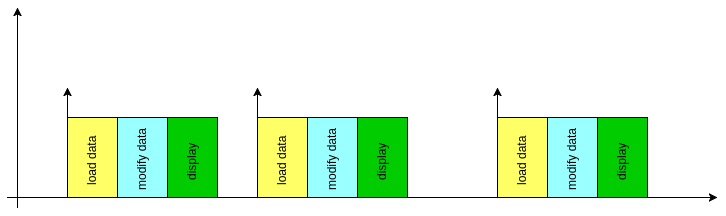
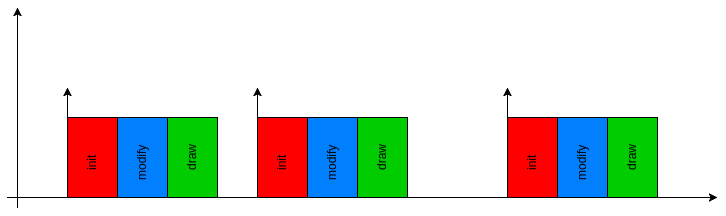
Fixed experiments

diff --git a/sections/experiments.tex b/sections/experiments.tex
@@ -1,25 +1,25 @@
 %!TEX root=../thesis.tex
 \chapter{Experiments} \label{cha:experiments}
 
-This chapter outlines in detail all the experiments run on the test application.
-Moreover, it provides also a discussion about the outcomes of the analysis. 
+This chapter outlines all the methodologies used to analyze the test application
+and it provides a discussion of the outcomes.
 
 
 \section{First measurements}
-The first measurements are obtained using the Web Tracing Framework presented in
-Section \ref{sec:wtf} and following the metodologies depicted in Sections
-\ref{sec:assumptions} and \ref{sec:procedure}.
+The first step to outline the behaviour of the test application is to include
+the the Web Tracing Framework library and to place
+the proper functions as shown in Listing \ref{code:wtf_example}.
+Consequently, the first measurements are obtained following the metodologies
+explained in Sections \ref{sec:assumptions} and \ref{sec:procedure}.
 
-The very first approach for profiling the navigator can be considered as an
-exploratory phase. All the default events available to the framework are
-used, resulting in a considerable amount of data. Fortunately the WTF interface
-displays the trace in a very neat way, allowing the user to easily navigate
-through the time series of the function calls. Moreover, based on this step,
-a selection of the interesting function calls is outlined in order to narrow the
-search field. The resulting list of WebGL primitives\footnote{A detailed description
-of the WebGL APIs can be found at the following link:
-\url{https://developer.mozilla.org/it/docs/Web/API/WebGL_API}.} is presented in
-Table \ref{tab:webgl_function_list}
+This very first approach can be considered as an
+exploratory phase. If all the default events available to the WTF are used, the
+resulting trace contains a considerable amount of data. Fortunately there is a
+graphical interface that allows to easily navigate the hierarchical structure
+of the function calls inside the trace. After getting used to the tool and its
+data format, a selection of the interesting function calls is outlined in order
+to narrow the search field only to WebGL functions. The resulting list of primitives
+is presented in Table \ref{tab:webgl_function_list}.
 \begin{table}[!htb]
     \centering
     \caption{The list of the WebGL function of interest.}
@@ -33,36 +33,47 @@ Table \ref{tab:webgl_function_list}
     \end{tabular}
 \end{table}
 
-After some trial-and-error tests, the trace extracted from the ``no-map'' scenario
-is chosen as the first to be analyzed more in detail. Figure \ref{img:no_map_overview}
-depicts a graphical representation of the trace, where every colored vertical bar
-symbolizes an occurrence of the event/function call tracked by the tool. As it
-is possible to notice, all of them are arranged into fairly regular groups.
+After some test, the trace extracted from the ``no-map'' scenario
+is selected as the first to be analyzed in detail. This choice is made
+to clarify the potential of the framework and to understand its limits, since
+this is the basic building block used in the rest of the work.
+Profiling the navigator in the abovementioned scenario outputs a trace that
+illustrates a very interesting result. Figure \ref{img:no_map_overview}
+shows a timeline representation of the trace, where every colored vertical bar
+symbolizes the occurrence of a function call or an event tracked by the tool.
+As it is possible to notice, all of them are arranged into fairly regular groups.
 \begin{figure}[!htb]
     \center{\includegraphics[width=1\linewidth]{no_map_overview.png}}
     \caption{An example trace highlighting the function groups.}
     \label{img:no_map_overview}
 \end{figure}
 
-Furthermore, every group starts with a \emph{bindBuffer} call; this function is
+Furthermore, it turns out that every group always start with a \emph{bindBuffer}
+call. According to the WebGL official documentation\footnote{A detailed description
+of the WebGL APIs can be found at the following link:
+\url{https://developer.mozilla.org/it/docs/Web/API/WebGL_API}.}, this function is
 responsible for binding a buffer object containing vertexes and/or colors to the
 current WebGL context. Essentially it marks an arbitrary buffer to be the current
-one where all the other WebGL functions work on. This is necessary due to the
-ability of the GPU process to deal with only one data structure at a time. Hence,
+one where all the other WebGL functions will work on. This is necessary due to the
+inability of the GPU process to deal with more than one data structure at a time. Hence,
 it is possible to virtually split the trace into small groups by means of the
-\emph{bindBuffer} function.\\
-After identifying the recurrent structure of the trace, it is possible to check
-which are the recurrent WebGL functions in each group and to gather them into
-macro-operations sets. After checking what is the specific task of every
-function, it became clear that they belong to three different scopes:
+\emph{bindBuffer} function.
+
+After identifying the particular structure of the trace, it is possible to check
+which are the recurrent WebGL functions belonging to each group and to gather them into
+macro-operations sets. After checking which is the specific task fulfilled by every
+function, it became clear that they belong to three main scopes:
 \begin{itemize}
     \item \emph{initialization/load data}: every WebGL function in this group
         is responsible for preparing the data structures to be loaded in memory
-        and for copying all the needed data.
+        and for copying all the needed data (eg. copies the bitmap of a texture
+        into some buffer).
     \item \emph{modify data}: these functions actually work on the vertex/color
-        buffer to modify the data, especially via matrix operations.
+        buffer to modify the data, especially via matrix operations (eg. updates
+        the value for a subset of objects in the buffer).
     \item \emph{display/draw}: this group is the one that sends the commands
-        that are actually used by the GPU to draw the shapes on the screen.
+        that are actually used by the GPU to draw the shapes on the screen
+        (eg. renders the vertexes in the buffer array).
 \end{itemize}
 
 A more detailed functions-to-groups mapping is shown in Table
@@ -76,7 +87,7 @@ A more detailed functions-to-groups mapping is shown in Table
         \hline
         \textbf{Initialization/load data} & \textbf{Modify data} & \textbf{Display/draw} \\ \hline
         bindBuffer/bindFramebuffer & uniformMatrix3fv/uniformMatrix4fv & drawElements \\
-        enable/disable & uniform[1\(\vert\)2\(\vert\)3\(\vert\)4][f\(\vert\)i\(\vert\)iv\(\vert\)fv] & drawArray \\
+        enable/disable & uniform[1\(\vert\)2\(\vert\)3\(\vert\)4][f\(\vert\)i\(\vert\)iv\(\vert\)fv] & drawArrays \\
         viewport & bindTexture/activeTexture &  \\
         clear/clearColor & bufferSubData &  \\
         cullFace &  &  \\
@@ -87,40 +98,43 @@ A more detailed functions-to-groups mapping is shown in Table
     \end{tabular}
 \end{table}
 
-Another important aspect to be noticed is how the timings fluctuate during the
-application run. As it is possible to see from Figure \ref{img:no_map_example},
-there can be outliers where the response time of the application is significantly
-smaller or larger with respect to all the rest of the trace.
+Another important aspect is how the timings' values fluctuate during every run of
+the application. As it is possible to see from Figure \ref{img:no_map_example},
+there can be outliers where the response time is significantly larger with respect
+to all the rest of the trace.
 \begin{figure}[!htb]
     \center{\includegraphics[width=0.75\linewidth]{500ms_1_no_map.png}}
-    \caption{Another trace extracted from the ``no-map'' scenario.}
+    \caption{A trace extracted from the ``no-map'' scenario.}
     \label{img:no_map_example}
 \end{figure}
-This fluctuating trend can have several justifications. Since the WTF is able to
-measure only the response times of the test application with a precision of
-\(\pm 0.5\,ms\), the bar chart shown
-in Figure \ref{img:no_map_example} is displaying on the Y axes a value which can
-be computed as follows:
+
+This fluctuating trend can have several justifications which need to be investigated
+further. Since the WTF is able to measure only the response times of the application
+with a precision of \(\pm 0.5\,ms\), the bar chart shown in Figure
+\ref{img:no_map_example} displays a composite value on the Y axis. The response
+time can be computed as follows:
 \begin{equation*}
     response\_time = computation\_time + interference
 \end{equation*}
 
-The \emph{interference} component in the formula just above is clearly due to the
-big OS stack which lies between the application JavaScript code runnint inside the
-browser and the Mesa 3D graphics driver, which is part of the Linux OS kernel.
-Thus, this issue has to be reduced to the minimum in order not to jeopardize the
+The \emph{interference} component is clearly due to the huge operating system
+stack lying between the JavaScript code, running inside the
+browser, and the Mesa 3D graphics driver, which is part of the Linux OS kernel.
+Hence, this inconvenience needs to be reduced as much as possible in order not to jeopardize the
 validity of all the results presented in this chapter. One possibility to mitigate
-the interference from higher priority tasks is to assign higher or real-time priorities
-to the entire Googhe Chrome instance using the \emph{nice}~\cite{aas2005understanding}
-tool. Another approach includes directly changing the scheduling policy via the
+the interference from higher priority tasks is to increase that of
+the Googhe Chrome instance using the \emph{nice} tool~\cite{aas2005understanding}.
+Another approach includes to directly change the scheduling policy via the
 \emph{chrt}\footnote{\url{http://man7.org/linux/man-pages/man1/chrt.1.html}.}
-utility to use different scheduling algorithms. It is possible to state that no
-noteworthy difference can be seen in the response times after applying the
-methods proposed above. For this reason, the \emph{computation\_time} component
-can be considered as the unique responsible for the timings fluctuations.
+utility for using a different scheduling algorithm. After several attempts,
+it is possible to state that no
+noteworthy difference in the response times can be observed after applying these
+methods. For this reason, further investigations in the \emph{computation\_time}
+component are foundamental for the timings fluctuations.
 
 Moreover, after dividing all the WebGL functions into macro-operations groups
-(see Table \ref{tab:webgl_func_mapping}). As it is possible to see from Figure
+(see Table \ref{tab:webgl_func_mapping}) it is possible to refine the graph shown
+in Figure \ref{img:no_map_example}. As it is possible to see from Figure
 \ref{img:no_map_groups}, this ``grouped'' bar chart is very useful to understand
 the weight of every set of operations with respect to the time elapsed between
 each \emph{bindBuffer} function call.
@@ -130,14 +144,13 @@ each \emph{bindBuffer} function call.
     \label{img:no_map_groups}
 \end{figure}
 
-A comparison between extensive 2D and 3D tests showed that response times
+Finally, a comparison between extensive 2D and 3D tests showed that response times
 during 3D rendering are slightly higher and more prone to fluctuations. This is
 certainly due to the different computation workloads which can significantly change
 over time, depending on the complexity of the scene to be rendered.
-
-Finally, this analysis work allows to discover a preliminary task model where
+This analysis using the WTF allows to discover an approximate task model, where
 each job of the rendering task can be divided into three logically different
-parts. A graphical rappresentation is given in Figure \ref{img:call_arrival}.
+parts. This can be summarized as shown in Figure \ref{img:call_arrival}.
 
 \begin{figure}[!htb]
     \center{\includegraphics[width=0.6\linewidth]{call_arrival.png}}
@@ -147,4 +160,7 @@ parts. A graphical rappresentation is given in Figure \ref{img:call_arrival}.
 
 
 \section{A fine-grained model}
+
+
+\section{The mathematical model}
 

diff --git a/sections/rt_model.tex b/sections/rt_model.tex
@@ -7,7 +7,7 @@ another very popular research topic. The Mozilla Foundation is actively working
 for bringing VR technologies to the web by means of WebVR~\cite{mozvr}. WebVR is
 ``an open specification that makes it possible to experience VR'' inside a web
 browser, whose main goal is to make VR experiences easier, regardless of the
-device used. This specification~\cite{webvrspecs} is available
+device used. This specification is available
 via different frameworks like Mozilla's A-Frame~\cite{aframe}, which allows
 to build virtual reality scenes inside the browser using only HTML and JavaScript
 code.\\
